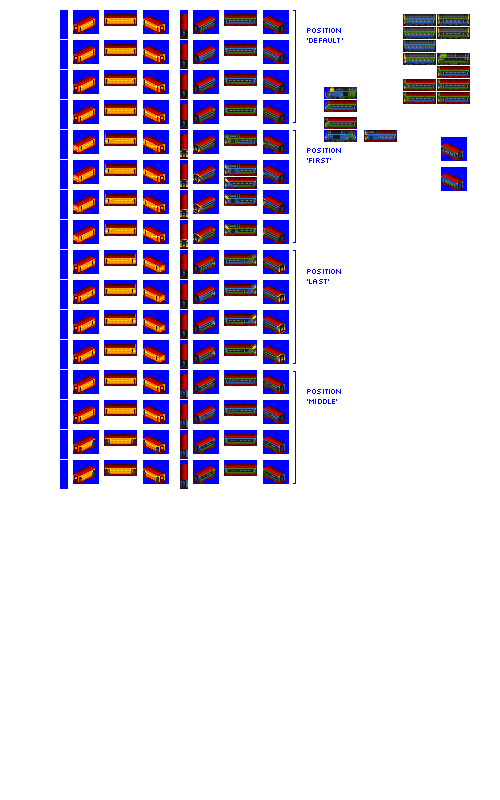
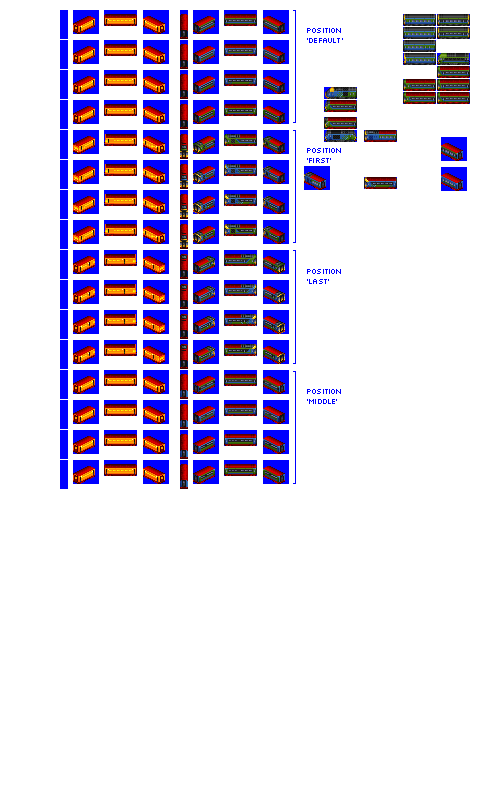
Change: sprites complete for Typhoon; WIP on Kraken

diff --git a/src/vehicles/pony/express_railcar_passenger_trailer_cars_pony.py b/src/vehicles/pony/express_railcar_passenger_trailer_cars_pony.py
@@ -5,7 +5,7 @@ def main(**kwargs):
     result = []
 
     # --------------- standard gauge ---------------------------------------------------------------
-    """ # CABBAGE
+
     model_def = ModelDef(
         schema_name="PassengerExpressRailcarTrailerCar",
         base_numeric_id=15350,
@@ -24,7 +24,7 @@ def main(**kwargs):
     )
 
     result.append(model_def)
-    """
+
     model_def = ModelDef(
         schema_name="PassengerExpressRailcarTrailerCar",
         base_numeric_id=1940,
@@ -43,7 +43,6 @@ def main(**kwargs):
 
     result.append(model_def)
 
-    """ # CABBAGE
     model_def = ModelDef(
         schema_name="PassengerExpressRailcarTrailerCar",
         base_numeric_id=15340,
@@ -60,7 +59,6 @@ def main(**kwargs):
         repeat=2,
     )
     result.append(model_def)
-    """
 
     model_def = ModelDef(
         schema_name="PassengerExpressRailcarTrailerCar",
@@ -80,14 +78,13 @@ def main(**kwargs):
 
     result.append(model_def)
 
-    """ # CABBAGE
     model_def = ModelDef(
         schema_name="PassengerExpressRailcarTrailerCar",
         base_numeric_id=1010,
         gen=5,
         subtype="U",
         cab_id="typhoon",
-        sprites_complete=False,
+        sprites_complete=True,
     )
 
     model_def.add_unit_def(
@@ -98,7 +95,7 @@ def main(**kwargs):
     )
 
     result.append(model_def)
-    """
+
     model_def = ModelDef(
         schema_name="PassengerExpressRailcarTrailerCar",
         base_numeric_id=30,

diff --git a/src/vehicles/pony/typhoon.py b/src/vehicles/pony/typhoon.py
@@ -17,7 +17,7 @@ def main(**kwargs):
         gen=5,
         intro_year_offset=1,  # introduce later by design
         livery_group_name="gen_5_and_6_pax_liveries",  # override default liveries from gestalt
-        sprites_complete=False,
+        sprites_complete=True,
     )
 
     model_def.add_unit_def(

diff --git a/src/rosters/pony.py b/src/rosters/pony.py
@@ -151,9 +151,9 @@ engine_module_names = [
     "jupiter",
     "pylon",
     # express diesel railcars
-    #"kraken", #CABBAGE
-    #"turbulent", #CABBAGE
-    #"typhoon", #CABBAGE
+    "kraken",
+    "turbulent",
+    "typhoon",
     # express electric railcars
     "high_flyer",
     "sunshine_coast",
